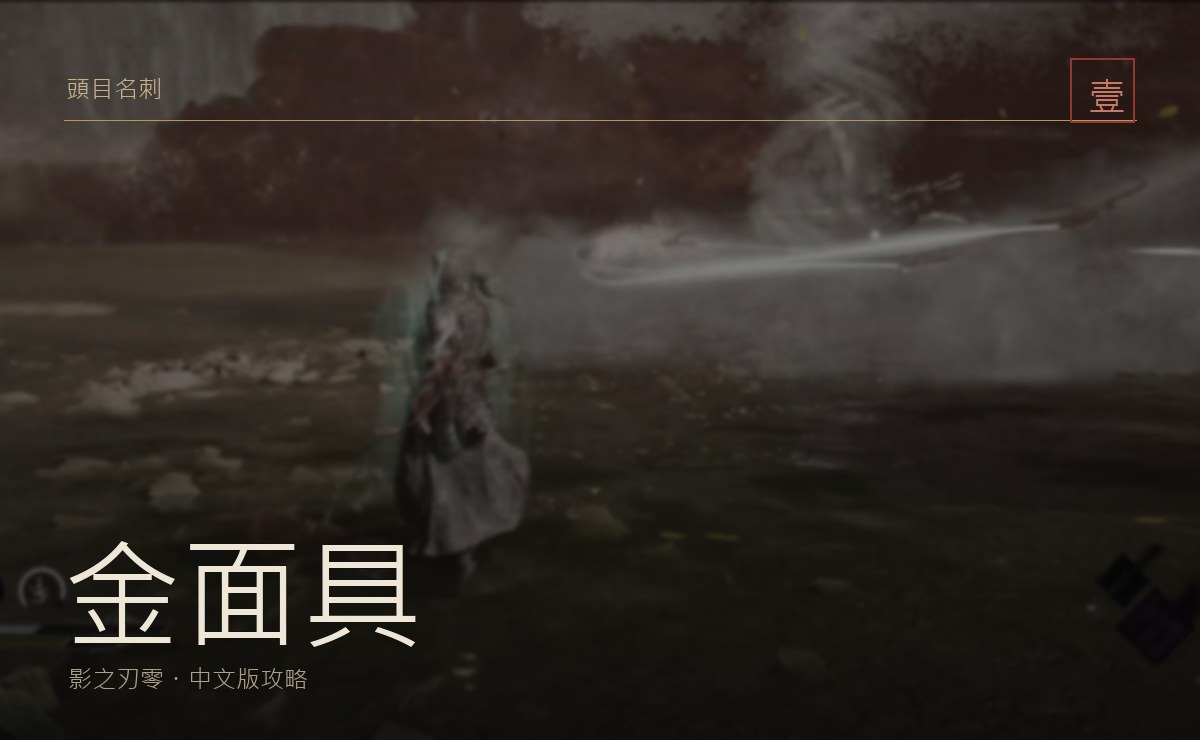
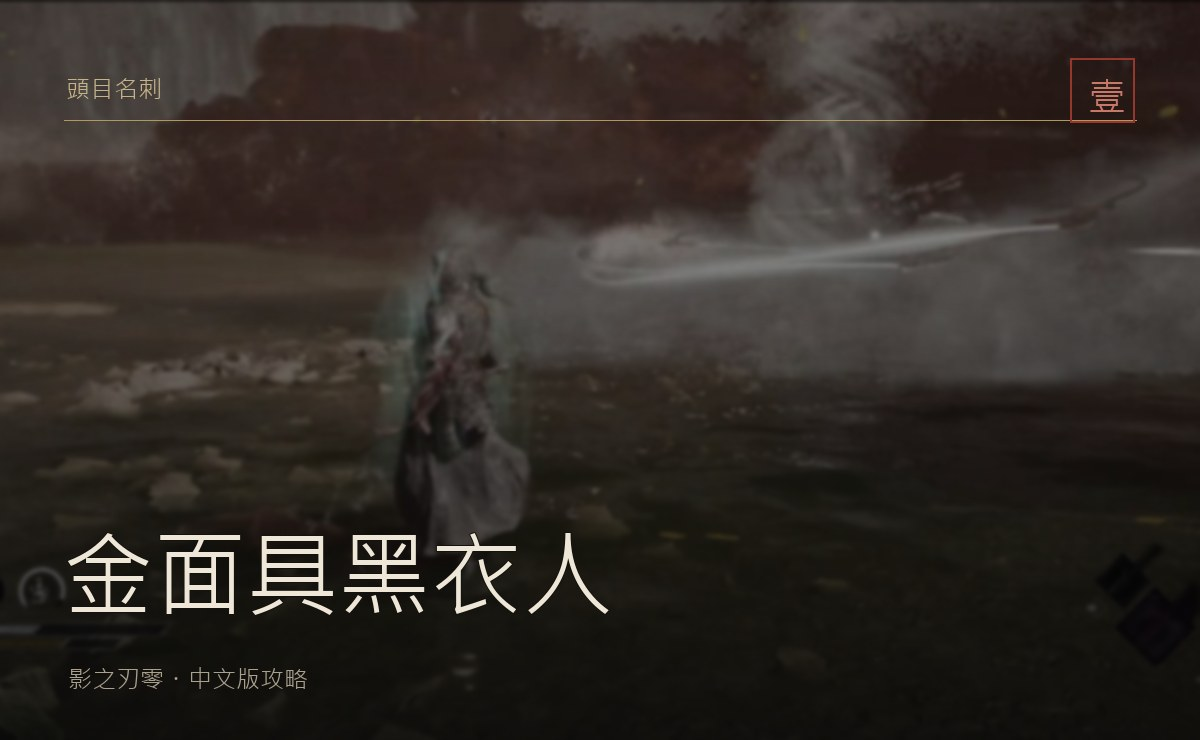
校正三張臉的詭異魔偶與金面具黑衣人中文名

Changed region(s): [[0.0617, 0.7149, 0.4933, 0.8703], [0.4933, 0.8081, 0.5242, 0.8392]]

diff --git a/pbz-dsh-guide/ch1.html b/pbz-dsh-guide/ch1.html
@@ -49,7 +49,7 @@
     <a href="#timeline"><span class="i">01</span>時間軸・易錯過</a>
     <a class="toc-sub" href="#s1">01　影動獵殺儀</a><a class="toc-sub" href="#s2">02　黑傷雙刃</a><a class="toc-sub" href="#s3">03　筋力綁帶</a><a class="toc-sub" href="#s4">04　血肉花（玉兒）</a><a class="toc-sub" href="#s5">05　四凶斧案卷 ×5</a><a class="toc-sub" href="#s6">06　殘鋼</a><a class="toc-sub" href="#s7">07　難言之隱</a><a class="toc-sub" href="#s8">08　清理門戶（房頂老頭）</a><a class="toc-sub" href="#s9">09　堅巖護腕</a><a class="toc-sub" href="#s10">10　見習醫師（玉兒）</a><a class="toc-sub" href="#s11">11　彭猛</a><a class="toc-sub" href="#s12">12　新娘阿花（隱藏）</a><a class="toc-sub" href="#s13">13　隔絕楔子（友善鬼差）</a><a class="toc-sub" href="#s14">14　追命（組織獵殺者）</a><a class="toc-sub" href="#s15">15　溪谷龍柱・血脈覺醒</a><a class="toc-sub" href="#s16">16　古甲殘片</a><a class="toc-sub" href="#s17">17　追殺令</a>
     <a href="#bosses"><span class="i">02</span>頭目攻略</a>
-    <a class="toc-sub" href="#b1">01　殘鋼</a><a class="toc-sub" href="#b2">02　三面魔偶</a><a class="toc-sub" href="#b3">03　彭猛</a><a class="toc-sub" href="#b4">04　新娘阿花</a><a class="toc-sub" href="#b5">05　追命</a><a class="toc-sub" href="#b6">06　金面具</a>
+    <a class="toc-sub" href="#b1">01　殘鋼</a><a class="toc-sub" href="#b2">02　三張臉的詭異魔偶</a><a class="toc-sub" href="#b3">03　彭猛</a><a class="toc-sub" href="#b4">04　新娘阿花</a><a class="toc-sub" href="#b5">05　追命</a><a class="toc-sub" href="#b6">06　金面具黑衣人</a>
     <a href="#checklist"><span class="i">03</span>離開前檢查</a>
     <div class="back"><a href="index.html">← 回到章節索引</a></div>
   </aside>
@@ -347,12 +347,12 @@
 <article class="boss-card" id="b2">
   <div class="boss-head">
     <div class="boss-portrait">
-      <img src="assets/images/boss-sanmian.jpg" alt="三面魔偶 攻略畫面" class="">
+      <img src="assets/images/boss-sanmian.jpg" alt="三張臉的詭異魔偶 攻略畫面" class="">
       <span class="tag miss">頭目名刺・會錯過</span>
     </div>
     <div class="boss-info">
       <div class="kicker">頭目攻略 · 悲泣溪谷</div>
-      <h3>三面魔偶</h3>
+      <h3>三張臉的詭異魔偶</h3>
       <div class="sub">聖母像裂縫・隱藏頭目</div>
       <div class="boss-loc"><span class="pin">◆</span><span>聖母像裂縫・鈴鐺下方</span></div>
       <div class="boss-reward"><span>單階段・後期還有一次</span><span>獎勵：三面傀儡</span></div>
@@ -443,12 +443,12 @@
 <article class="boss-card" id="b6">
   <div class="boss-head">
     <div class="boss-portrait">
-      <img src="assets/images/boss-jinmianju.jpg" alt="金面具 攻略畫面" class="">
+      <img src="assets/images/boss-jinmianju.jpg" alt="金面具黑衣人 攻略畫面" class="">
       <span class="tag miss">頭目名刺・會錯過</span>
     </div>
     <div class="boss-info">
       <div class="kicker">頭目攻略 · 悲泣溪谷</div>
-      <h3>金面具</h3>
+      <h3>金面具黑衣人</h3>
       <div class="sub">龍柱挑戰・第一次</div>
       <div class="boss-loc"><span class="pin">◆</span><span>悲泣溪谷龍柱</span></div>
       <div class="boss-reward"><span>單階段・後續還有三次</span><span>獎勵：反擊護腕（第一次）</span></div>

diff --git a/pbz-dsh-guide/ch2.html b/pbz-dsh-guide/ch2.html
@@ -49,7 +49,7 @@
     <a href="#timeline"><span class="i">01</span>時間軸・易錯過</a>
     <a class="toc-sub" href="#s1">01　虛空的記憶之花 ×6</a><a class="toc-sub" href="#s2">02　花千笑</a><a class="toc-sub" href="#s3">03　破盾符</a><a class="toc-sub" href="#s4">04　妙手小張與【妙手空空】</a><a class="toc-sub" href="#s5">05　斬騎符</a><a class="toc-sub" href="#s6">06　荊野</a><a class="toc-sub" href="#s7">07　獨孤絕印</a><a class="toc-sub" href="#s8">08　屏息綁帶</a><a class="toc-sub" href="#s9">09　飛賊的秘籍</a><a class="toc-sub" href="#s10">10　飛賊營地地牢</a><a class="toc-sub" href="#s11">11　孟小師妹</a><a class="toc-sub" href="#s12">12　鐵狂</a><a class="toc-sub" href="#s13">13　白赤練</a>
     <a href="#bosses"><span class="i">02</span>頭目攻略</a>
-    <a class="toc-sub" href="#b1">01　花千笑</a><a class="toc-sub" href="#b2">02　荊野</a><a class="toc-sub" href="#b3">03　鐵狂</a><a class="toc-sub" href="#b4">04　白赤練</a><a class="toc-sub" href="#b5">05　金面具</a><a class="toc-sub" href="#b6">06　玉琮</a>
+    <a class="toc-sub" href="#b1">01　花千笑</a><a class="toc-sub" href="#b2">02　荊野</a><a class="toc-sub" href="#b3">03　鐵狂</a><a class="toc-sub" href="#b4">04　白赤練</a><a class="toc-sub" href="#b5">05　金面具黑衣人</a><a class="toc-sub" href="#b6">06　玉琮</a>
     <a href="#checklist"><span class="i">03</span>離開前檢查</a>
     <div class="back"><a href="index.html">← 回到章節索引</a></div>
   </aside>
@@ -363,12 +363,12 @@
 <article class="boss-card" id="b5">
   <div class="boss-head">
     <div class="boss-portrait">
-      <img src="assets/images/boss-jinmianju.jpg" alt="金面具 攻略畫面" class="">
+      <img src="assets/images/boss-jinmianju.jpg" alt="金面具黑衣人 攻略畫面" class="">
       <span class="tag miss">頭目名刺・會錯過</span>
     </div>
     <div class="boss-info">
       <div class="kicker">頭目攻略 · 血色森林</div>
-      <h3>金面具</h3>
+      <h3>金面具黑衣人</h3>
       <div class="sub">龍柱挑戰・第二次</div>
       <div class="boss-loc"><span class="pin">◆</span><span>血色森林龍柱</span></div>
       <div class="boss-reward"><span>單階段</span><span>獎勵：奇蹟刀鞘</span></div>

diff --git a/pbz-dsh-guide/bosses.html b/pbz-dsh-guide/bosses.html
@@ -54,8 +54,8 @@
   <span class="go">→</span>
 </a>
 <a class="boss-tile" href="ch1.html#b2" data-chapter="ch1" data-miss="1">
-  <div class="ph"><img src="assets/images/boss-sanmian.jpg" alt="三面魔偶" class=""></div>
-  <div class="bd"><div class="ch">悲泣溪谷 · 聖母像裂縫・隱藏頭目</div><h3>三面魔偶</h3><p>聖母像裂縫・鈴鐺下方</p></div>
+  <div class="ph"><img src="assets/images/boss-sanmian.jpg" alt="三張臉的詭異魔偶" class=""></div>
+  <div class="bd"><div class="ch">悲泣溪谷 · 聖母像裂縫・隱藏頭目</div><h3>三張臉的詭異魔偶</h3><p>聖母像裂縫・鈴鐺下方</p></div>
   <span class="go">→</span>
 </a>
 <a class="boss-tile" href="ch1.html#b3" data-chapter="ch1" data-miss="0">
@@ -74,8 +74,8 @@
   <span class="go">→</span>
 </a>
 <a class="boss-tile" href="ch1.html#b6" data-chapter="ch1" data-miss="1">
-  <div class="ph"><img src="assets/images/boss-jinmianju.jpg" alt="金面具" class=""></div>
-  <div class="bd"><div class="ch">悲泣溪谷 · 龍柱挑戰・第一次</div><h3>金面具</h3><p>悲泣溪谷龍柱</p></div>
+  <div class="ph"><img src="assets/images/boss-jinmianju.jpg" alt="金面具黑衣人" class=""></div>
+  <div class="bd"><div class="ch">悲泣溪谷 · 龍柱挑戰・第一次</div><h3>金面具黑衣人</h3><p>悲泣溪谷龍柱</p></div>
   <span class="go">→</span>
 </a>
 <a class="boss-tile" href="ch2.html#b1" data-chapter="ch2" data-miss="0">
@@ -99,8 +99,8 @@
   <span class="go">→</span>
 </a>
 <a class="boss-tile" href="ch2.html#b5" data-chapter="ch2" data-miss="1">
-  <div class="ph"><img src="assets/images/boss-jinmianju.jpg" alt="金面具" class=""></div>
-  <div class="bd"><div class="ch">血色森林 · 龍柱挑戰・第二次</div><h3>金面具</h3><p>血色森林龍柱</p></div>
+  <div class="ph"><img src="assets/images/boss-jinmianju.jpg" alt="金面具黑衣人" class=""></div>
+  <div class="bd"><div class="ch">血色森林 · 龍柱挑戰・第二次</div><h3>金面具黑衣人</h3><p>血色森林龍柱</p></div>
   <span class="go">→</span>
 </a>
 <a class="boss-tile" href="ch2.html#b6" data-chapter="ch2" data-miss="1">

diff --git a/dsh/src/content_part1.py b/dsh/src/content_part1.py
@@ -220,7 +220,7 @@ CH1 = {
             "reward": "殘鋼刃（出血）"
         },
         {
-            "name": "三面魔偶", "title": "聖母像裂縫・隱藏頭目", "loc": "聖母像裂縫・鈴鐺下方",
+            "name": "三張臉的詭異魔偶", "title": "聖母像裂縫・隱藏頭目", "loc": "聖母像裂縫・鈴鐺下方",
             "img": "boss-sanmian.jpg", "miss": True,
             "phases": "單階段・後期還有一次",
             "tactics": [
@@ -270,7 +270,7 @@ CH1 = {
             "reward": "追命鎖鐮（抓鉤）"
         },
         {
-            "name": "金面具", "title": "龍柱挑戰・第一次", "loc": "悲泣溪谷龍柱",
+            "name": "金面具黑衣人", "title": "龍柱挑戰・第一次", "loc": "悲泣溪谷龍柱",
             "img": "boss-jinmianju.jpg", "miss": True,
             "phases": "單階段・後續還有三次",
             "tactics": [
@@ -452,7 +452,7 @@ CH2 = {
             "reward": "白蟒赤練、破損的幻術琵琶"
         },
         {
-            "name": "金面具", "title": "龍柱挑戰・第二次", "loc": "血色森林龍柱",
+            "name": "金面具黑衣人", "title": "龍柱挑戰・第二次", "loc": "血色森林龍柱",
             "img": "boss-jinmianju.jpg", "miss": True,
             "phases": "單階段",
             "tactics": [

diff --git a/dsh/src/verify_live.py b/dsh/src/verify_live.py
@@ -1,0 +1,14 @@
+import requests, re
+base = 'https://samvanity.github.io/pbz-guide/pbz-dsh-guide/'
+pages = ['index.html', 'bosses.html', 'missables.html', 'ending.html'] + [f'ch{i}.html' for i in range(10)]
+bad = []
+for p in pages:
+    r = requests.get(base + p, timeout=30)
+    print(p, r.status_code, len(r.content))
+    for src in set(re.findall(r'src="([^"]+)"', r.text)):
+        u = base + src if not src.startswith('http') else src
+        h = requests.head(u, timeout=30)
+        if h.status_code != 200:
+            bad.append((p, src, h.status_code))
+print('bad', len(bad))
+print(bad[:5])

diff --git a/dsh/src/plates.py b/dsh/src/plates.py
@@ -6,8 +6,8 @@ BASE = os.path.dirname(os.path.dirname(os.path.abspath(__file__)))
 IMGDIR = os.path.join(BASE, 'site', 'assets', 'images')
 
 PLATES = {
-    'sanmian': ('三面魔偶', 'hero-creek.jpg', '壹'),
-    'jinmianju': ('金面具', 'hero-creek.jpg', '壹'),
+    'sanmian': ('三張臉的詭異魔偶', 'hero-creek.jpg', '壹'),
+    'jinmianju': ('金面具黑衣人', 'hero-creek.jpg', '壹'),
     'muxiaokui': ('沐小葵', 'hero-lu.jpg', '參'),
     'xieqiudong': ('謝秋冬', 'hero-pang.jpg', '肆'),
     'guhe': ('古鶴', 'hero-lake.jpg', '陸'),

diff --git a/dsh/src/fixnames.py b/dsh/src/fixnames.py
@@ -1,0 +1,7 @@
+import re, glob
+for p in glob.glob(r'dsh/src/content_part*.py'):
+    s = open(p, encoding='utf-8').read()
+    s = s.replace('三面魔偶', '三張臉的詭異魔偶')
+    s = re.sub(r'金面具(?!黑衣人)', '金面具黑衣人', s)
+    open(p, 'w', encoding='utf-8').write(s)
+print('names fixed')
